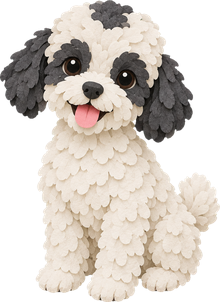
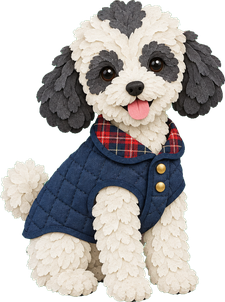
v2-pro preview: Pudding's winter coat
Claude-Session: https://claude.ai/code/session_01YFmgE8t31npEdtV1E44xiG

diff --git a/v2-pro/index.html b/v2-pro/index.html
@@ -313,10 +313,8 @@ p { margin: 0; }
 
 
 /* Pudding the puppy sits on the pavement by the student from the start; when the journey arrives she hops, then wags and tilts her head */
-.stepimg .pud { position: absolute; width: 7.6%; left: 30.5%; top: 55%; pointer-events: none; }
+.stepimg .pud { position: absolute; width: 7.77%; left: 30.5%; top: 55%; pointer-events: none; }
 .stepimg .pudding img { display: block; width: 100%; height: auto; }
-.stepimg .pudding .vest { position: absolute; left: 18.5%; top: 45.5%; width: 50%; height: 25%; filter: drop-shadow(0 1px 1.5px rgba(0,0,0,.3)); }
-.stepimg .pudding .tie { position: absolute; left: 36%; top: 46%; width: 14.5%; height: auto; filter: drop-shadow(0 1px 1px rgba(0,0,0,.25)); }
 .stepimg .pudding { position: relative; display: block; width: 100%; transform-origin: 50% 100%; pointer-events: none; filter: drop-shadow(0 2px 1px rgba(0,0,0,.22)); }
 .journey.live li.played .stepimg .pudding { animation: pud-hop .9s steps(1, end) 1.2s 1, pud-wag 2.4s steps(1, end) 2.2s infinite; }
 @keyframes pud-hop { 0%, 100% { transform: none; } 20% { transform: scale(1.06, .9); } 40% { transform: translateY(-24%) scale(.96, 1.06); } 60% { transform: translateY(-8%); } 80% { transform: scale(1.04, .94); } }
@@ -589,7 +587,7 @@ footer .base { margin-top: 40px; padding-top: 18px; border-top: 1px solid rgba(2
           </div>
         </div>
         <figure class="pframe">
-          <img src="images/v2/consult.jpg?v=1795373072" alt="A consultant talking with a mother and her daughter by a window over the sea" width="1400" height="933">
+          <img src="images/v2/consult.jpg?v=1795373140" alt="A consultant talking with a mother and her daughter by a window over the sea" width="1400" height="933">
         </figure>
       </div>
       <div class="facts">
@@ -610,9 +608,9 @@ footer .base { margin-top: 40px; padding-top: 18px; border-top: 1px solid rgba(2
       <div>
         <div class="journey" id="journey"><span class="track" aria-hidden="true"><span class="fill"></span><span class="dot"></span></span>
         <ol class="process">
-          <li><span class="n">1</span><h3><span class="en">A free conversation</span><span class="zh">免费沟通</span></h3><p><span class="en">Tell us about age, grades, English level, budget and goals, by WeChat call or in person.</span><span class="zh">通过微信语音或面谈，聊聊年龄、成绩、英语水平、预算和目标。</span><span class="who"><span class="en">With Oriwis</span><span class="zh">Oriwis 陪同</span></span></p><div class="stepimg"><div class="scene"><img class="base" src="images/v2/step1.jpg?v=1795373072" alt="Paper-cut illustration: a consultant with a short black bob, in a navy blazer, talking with a mother and her daughter at a table, with a palm tree in the window" width="960" height="640" loading="lazy"><div class="sea" style="left:30.312%;top:15.000%;width:22.396%;height:25.000%"><img src="images/v2/step1.jpg?v=1795373072" alt="" style="width:446.512%;left:-135.349%;top:-60.000%;transform-origin:41.51% 27.50%"></div><div class="sea" style="left:54.583%;top:17.500%;width:21.562%;height:22.500%"><img src="images/v2/step1.jpg?v=1795373072" alt="" style="width:463.768%;left:-253.140%;top:-77.778%;transform-origin:65.36% 28.75%"></div><svg class="palm" viewBox="0 0 120 170" aria-hidden="true" style="left:62.292%;top:0.000%;width:10.000%"><ellipse cx="60" cy="160" rx="34" ry="8" fill="#cdb07a"/><ellipse cx="60" cy="157" rx="30" ry="7" fill="#e9d3a3"/><g class="palm-sway"><path d="M55 158 C57 125 52 92 60 52 L67 53 C61 92 66 125 65 158 Z" fill="#8a5c3a"/><path d="M57 150h8M56 138h9M55 126h9M55 114h9M56 102h9M57 90h9M58 78h8M59 66h8" stroke="#6d4529" stroke-width="2" stroke-linecap="round"/><g class="fronds"><path d="M63 50 C45 34 22 32 6 44 C24 38 42 42 63 54 Z" fill="#2c7c58"/><path d="M63 50 C50 26 34 14 16 14 C34 22 47 34 61 54 Z" fill="#3a9a6c"/><path d="M63 50 C64 28 72 12 86 6 C76 18 70 32 66 54 Z" fill="#2c7c58"/><path d="M63 50 C80 32 100 30 116 40 C98 38 82 42 66 55 Z" fill="#3a9a6c"/><path d="M64 52 C84 50 104 58 112 74 C98 62 82 58 64 57 Z" fill="#2c7c58"/><path d="M62 52 C44 52 24 62 16 78 C30 66 46 60 62 57 Z" fill="#3a9a6c"/><circle cx="60" cy="56" r="4.2" fill="#6b4a2e"/><circle cx="67" cy="57" r="4" fill="#5a3d25"/></g></g></svg><svg class="gull" viewBox="0 0 40 20" aria-hidden="true"><path class="w1" d="M2 12 Q10 2 20 11 Q30 2 38 12 Q30 7 20 14 Q10 7 2 12Z"/><path class="w2" d="M3 6 Q11 13 20 11 Q29 13 37 6 Q29 15 20 15 Q11 15 3 6Z"/></svg><span class="wtint" aria-hidden="true" style="left:30.312%;top:0.000%;width:22.396%;height:40.000%"><span class="dusk"></span><span class="night"><i class="wstar" style="left:18%;top:20%"></i><i class="wstar" style="left:40%;top:10%"></i><i class="wstar" style="left:70%;top:30%"></i><i class="wstar" style="left:25%;top:45%"></i></span></span><span class="wtint" aria-hidden="true" style="left:54.583%;top:0.000%;width:21.562%;height:40.000%"><span class="dusk"></span><span class="night"><i class="wmoon"></i><i class="wstar" style="left:15%;top:12%"></i><i class="wstar" style="left:35%;top:40%"></i><i class="wstar" style="left:55%;top:8%"></i></span></span><div class="pc b1" style="left:0.000%;top:46.094%;width:31.562%;transform-origin:46.2% 99.6%"><img class="bimg" src="images/v2/step1-b1.png?v=1795373072" alt="" loading="lazy"><img class="arm" src="images/v2/step1-arm.png?v=1795373072" alt="" loading="lazy" style="left:86.139%;top:21.983%;width:36.964%;transform-origin:22.3% 85.4%"><img class="head h1" src="images/v2/step1-h1.png?v=1795373072" alt="" loading="lazy" style="left:14.191%;top:-76.293%;width:61.716%;transform-origin:62.6% 98.9%"></div><div class="pc b2" style="left:38.646%;top:47.500%;width:28.958%;transform-origin:50.0% 98.6%"><img class="bimg" src="images/v2/step1-b2.png?v=1795373072" alt="" loading="lazy"><img class="head h2" src="images/v2/step1-h2.png?v=1795373072" alt="" loading="lazy" style="left:17.626%;top:-92.417%;width:74.820%;transform-origin:49.0% 99.5%"></div><div class="pc b3" style="left:72.604%;top:49.375%;width:26.875%;transform-origin:47.7% 98.4%"><img class="bimg" src="images/v2/step1-b3.png?v=1795373072" alt="" loading="lazy"><img class="head h3" src="images/v2/step1-h3.png?v=1795373072" alt="" loading="lazy" style="left:23.256%;top:-61.200%;width:74.806%;transform-origin:30.1% 99.4%"></div></div></div></li>
-          <li><span class="n">2</span><h3><span class="en">Your shortlist</span><span class="zh">匹配清单</span></h3><p><span class="en">A short list of suitable UK schools or courses, with entry requirements and timing explained.</span><span class="zh">一份适合你的英国学校或课程清单，讲清入学要求和时间安排。</span><span class="who"><span class="en">With Oriwis</span><span class="zh">Oriwis 陪同</span></span></p><div class="stepimg"><div class="scene"><img class="base" src="images/v2/step2.jpg?v=1795373072" alt="Paper-cut illustration: a magnifying glass moves over a map of the UK and finds schools in Scotland, the Midlands and London" width="960" height="640" loading="lazy"><img class="card cardA" src="images/v2/step2-cardA.png?v=1795373072" alt="" loading="lazy" style="left:62.500%;top:6.562%;width:26.042%"><img class="card cardC" src="images/v2/step2-cardC.png?v=1795373072" alt="" loading="lazy" style="left:12.500%;top:39.062%;width:22.396%"><img class="card cardB" src="images/v2/step2-cardB.png?v=1795373072" alt="" loading="lazy" style="left:70.000%;top:51.562%;width:26.042%"><svg class="mag" viewBox="0 0 120 120" aria-hidden="true"><rect x="74" y="70" width="16" height="52" rx="7" transform="rotate(-45 82 96)" fill="#1e4a63"/><rect x="77" y="73" width="6" height="40" rx="3" transform="rotate(-45 80 93)" fill="#2f6582"/><circle cx="48" cy="48" r="38" fill="rgba(255,255,255,.22)" stroke="#1e4a63" stroke-width="10"/><circle cx="48" cy="48" r="31" fill="none" stroke="#8fc6c9" stroke-width="3"/><path d="M30 30 Q38 22 50 22" fill="none" stroke="#fff" stroke-width="5" stroke-linecap="round" opacity=".75"/></svg></div></div></li>
-          <li class="you"><span class="n">3</span><h3><span class="en">Introduction to the school</span><span class="zh">对接学校</span></h3><p><span class="en">We introduce you to the school or its official partner. You apply and pay them directly.</span><span class="zh">我们为你介绍学校或其官方合作方，申请与缴费由你直接完成。</span><span class="who"><span class="en">You and the school</span><span class="zh">你与学校</span></span></p><div class="stepimg"><div class="scene"><img class="base" src="images/v2/step3.jpg?v=1795373072" alt="Paper-cut illustration: a student and her mother shake hands with a teacher at a London school gate, with Big Ben, a red phone box, a street lamp and a little white poodle puppy and a schoolboy cycling in with books in his basket, whom the puppy runs over to greet, while the front of a red double-decker bus pulls in at the right" width="960" height="640" loading="lazy"><span class="lamp" aria-hidden="true" style="left:93.229%;top:18.438%"><i class="halo"></i><i class="glass"></i></span><span class="pud"><span class="pudding"><img src="images/v2/step3-pudding.png?v=1795373072" alt="" loading="lazy" width="220"><svg class="tie" viewBox="0 0 32 80" aria-hidden="true"><defs><clipPath id="tieclip"><path d="M10 10 L22 10 L27 62 L16 78 L5 62 Z"/></clipPath></defs><path d="M8 0 L24 0 L22 11 L10 11 Z" fill="#14294a"/><g clip-path="url(#tieclip)"><rect x="0" y="8" width="32" height="74" fill="#14294a"/><path d="M-6 20 L40 4 M-6 34 L40 18 M-6 48 L40 32 M-6 62 L40 46 M-6 76 L40 60" stroke="#e3b061" stroke-width="3.2"/><path d="M-6 25 L40 9 M-6 39 L40 23 M-6 53 L40 37 M-6 67 L40 51" stroke="#a83232" stroke-width="1.6"/></g><path d="M8 0 L24 0 L22 11 L10 11 Z" fill="none" stroke="rgba(0,0,0,.25)" stroke-width="1"/></svg><svg class="vest" viewBox="0 0 100 60" preserveAspectRatio="none" aria-hidden="true"><path d="M22 3 L35 0 L50 42 L65 0 L78 3 Q93 18 95 38 Q96 52 91 57 L62 54 L50 60 L38 54 L9 57 Q4 52 5 38 Q7 18 22 3 Z" fill="#2f3d55"/><path d="M35 0 L50 42 L65 0" fill="none" stroke="#1d2738" stroke-width="2.2" stroke-linejoin="round"/><path d="M50 42 L50 59" stroke="#1d2738" stroke-width="1.2"/><path d="M22 3 L35 0 L50 42 L65 0 L78 3 Q93 18 95 38 Q96 52 91 57 L62 54 L50 60 L38 54 L9 57 Q4 52 5 38 Q7 18 22 3 Z" fill="none" stroke="#1d2738" stroke-width="1.4"/><path d="M17 40 l13 -1.5 M70 38.5 l13 1.5" stroke="#1d2738" stroke-width="1.6" stroke-linecap="round"/><g fill="#e3b061" stroke="#a87a2c" stroke-width=".6"><circle cx="53.5" cy="46" r="2.1"/><circle cx="53.5" cy="52.5" r="2.1"/></g></svg></span></span><span class="cyclist" aria-hidden="true"><svg class="scarf" viewBox="0 0 100 40" aria-hidden="true"><g class="s1"><path d="M100 10 C82 4 64 16 44 9 S14 4 2 12" fill="none" stroke="#c8322f" stroke-width="9" stroke-linecap="round"/><path d="M100 10 C82 4 64 16 44 9 S14 4 2 12" fill="none" stroke="#f2e6cf" stroke-width="9" stroke-dasharray="7 7"/><path d="M2 12 l-3 -4 M2 12 l-4 0 M2 12 l-3 4" stroke="#c8322f" stroke-width="1.6" stroke-linecap="round"/></g><g class="s2"><path d="M100 10 C82 16 62 2 42 12 S12 16 2 6" fill="none" stroke="#c8322f" stroke-width="9" stroke-linecap="round"/><path d="M100 10 C82 16 62 2 42 12 S12 16 2 6" fill="none" stroke="#f2e6cf" stroke-width="9" stroke-dasharray="7 7"/><path d="M2 6 l-3 -4 M2 6 l-4 0 M2 6 l-3 4" stroke="#c8322f" stroke-width="1.6" stroke-linecap="round"/></g></svg><img src="images/v2/step3-boy.png?v=1795373072" alt="" loading="lazy" width="300" height="300"></span><img class="hands" src="images/v2/step3-hands.png?v=1795373072" alt="" loading="lazy" style="left:48.854%;top:45.625%;width:5.729%"><img class="bus" src="images/v2/step3-bus.png?v=1795373072" alt="" loading="lazy" width="520" height="389"></div></div></li>
+          <li><span class="n">1</span><h3><span class="en">A free conversation</span><span class="zh">免费沟通</span></h3><p><span class="en">Tell us about age, grades, English level, budget and goals, by WeChat call or in person.</span><span class="zh">通过微信语音或面谈，聊聊年龄、成绩、英语水平、预算和目标。</span><span class="who"><span class="en">With Oriwis</span><span class="zh">Oriwis 陪同</span></span></p><div class="stepimg"><div class="scene"><img class="base" src="images/v2/step1.jpg?v=1795373140" alt="Paper-cut illustration: a consultant with a short black bob, in a navy blazer, talking with a mother and her daughter at a table, with a palm tree in the window" width="960" height="640" loading="lazy"><div class="sea" style="left:30.312%;top:15.000%;width:22.396%;height:25.000%"><img src="images/v2/step1.jpg?v=1795373140" alt="" style="width:446.512%;left:-135.349%;top:-60.000%;transform-origin:41.51% 27.50%"></div><div class="sea" style="left:54.583%;top:17.500%;width:21.562%;height:22.500%"><img src="images/v2/step1.jpg?v=1795373140" alt="" style="width:463.768%;left:-253.140%;top:-77.778%;transform-origin:65.36% 28.75%"></div><svg class="palm" viewBox="0 0 120 170" aria-hidden="true" style="left:62.292%;top:0.000%;width:10.000%"><ellipse cx="60" cy="160" rx="34" ry="8" fill="#cdb07a"/><ellipse cx="60" cy="157" rx="30" ry="7" fill="#e9d3a3"/><g class="palm-sway"><path d="M55 158 C57 125 52 92 60 52 L67 53 C61 92 66 125 65 158 Z" fill="#8a5c3a"/><path d="M57 150h8M56 138h9M55 126h9M55 114h9M56 102h9M57 90h9M58 78h8M59 66h8" stroke="#6d4529" stroke-width="2" stroke-linecap="round"/><g class="fronds"><path d="M63 50 C45 34 22 32 6 44 C24 38 42 42 63 54 Z" fill="#2c7c58"/><path d="M63 50 C50 26 34 14 16 14 C34 22 47 34 61 54 Z" fill="#3a9a6c"/><path d="M63 50 C64 28 72 12 86 6 C76 18 70 32 66 54 Z" fill="#2c7c58"/><path d="M63 50 C80 32 100 30 116 40 C98 38 82 42 66 55 Z" fill="#3a9a6c"/><path d="M64 52 C84 50 104 58 112 74 C98 62 82 58 64 57 Z" fill="#2c7c58"/><path d="M62 52 C44 52 24 62 16 78 C30 66 46 60 62 57 Z" fill="#3a9a6c"/><circle cx="60" cy="56" r="4.2" fill="#6b4a2e"/><circle cx="67" cy="57" r="4" fill="#5a3d25"/></g></g></svg><svg class="gull" viewBox="0 0 40 20" aria-hidden="true"><path class="w1" d="M2 12 Q10 2 20 11 Q30 2 38 12 Q30 7 20 14 Q10 7 2 12Z"/><path class="w2" d="M3 6 Q11 13 20 11 Q29 13 37 6 Q29 15 20 15 Q11 15 3 6Z"/></svg><span class="wtint" aria-hidden="true" style="left:30.312%;top:0.000%;width:22.396%;height:40.000%"><span class="dusk"></span><span class="night"><i class="wstar" style="left:18%;top:20%"></i><i class="wstar" style="left:40%;top:10%"></i><i class="wstar" style="left:70%;top:30%"></i><i class="wstar" style="left:25%;top:45%"></i></span></span><span class="wtint" aria-hidden="true" style="left:54.583%;top:0.000%;width:21.562%;height:40.000%"><span class="dusk"></span><span class="night"><i class="wmoon"></i><i class="wstar" style="left:15%;top:12%"></i><i class="wstar" style="left:35%;top:40%"></i><i class="wstar" style="left:55%;top:8%"></i></span></span><div class="pc b1" style="left:0.000%;top:46.094%;width:31.562%;transform-origin:46.2% 99.6%"><img class="bimg" src="images/v2/step1-b1.png?v=1795373140" alt="" loading="lazy"><img class="arm" src="images/v2/step1-arm.png?v=1795373140" alt="" loading="lazy" style="left:86.139%;top:21.983%;width:36.964%;transform-origin:22.3% 85.4%"><img class="head h1" src="images/v2/step1-h1.png?v=1795373140" alt="" loading="lazy" style="left:14.191%;top:-76.293%;width:61.716%;transform-origin:62.6% 98.9%"></div><div class="pc b2" style="left:38.646%;top:47.500%;width:28.958%;transform-origin:50.0% 98.6%"><img class="bimg" src="images/v2/step1-b2.png?v=1795373140" alt="" loading="lazy"><img class="head h2" src="images/v2/step1-h2.png?v=1795373140" alt="" loading="lazy" style="left:17.626%;top:-92.417%;width:74.820%;transform-origin:49.0% 99.5%"></div><div class="pc b3" style="left:72.604%;top:49.375%;width:26.875%;transform-origin:47.7% 98.4%"><img class="bimg" src="images/v2/step1-b3.png?v=1795373140" alt="" loading="lazy"><img class="head h3" src="images/v2/step1-h3.png?v=1795373140" alt="" loading="lazy" style="left:23.256%;top:-61.200%;width:74.806%;transform-origin:30.1% 99.4%"></div></div></div></li>
+          <li><span class="n">2</span><h3><span class="en">Your shortlist</span><span class="zh">匹配清单</span></h3><p><span class="en">A short list of suitable UK schools or courses, with entry requirements and timing explained.</span><span class="zh">一份适合你的英国学校或课程清单，讲清入学要求和时间安排。</span><span class="who"><span class="en">With Oriwis</span><span class="zh">Oriwis 陪同</span></span></p><div class="stepimg"><div class="scene"><img class="base" src="images/v2/step2.jpg?v=1795373140" alt="Paper-cut illustration: a magnifying glass moves over a map of the UK and finds schools in Scotland, the Midlands and London" width="960" height="640" loading="lazy"><img class="card cardA" src="images/v2/step2-cardA.png?v=1795373140" alt="" loading="lazy" style="left:62.500%;top:6.562%;width:26.042%"><img class="card cardC" src="images/v2/step2-cardC.png?v=1795373140" alt="" loading="lazy" style="left:12.500%;top:39.062%;width:22.396%"><img class="card cardB" src="images/v2/step2-cardB.png?v=1795373140" alt="" loading="lazy" style="left:70.000%;top:51.562%;width:26.042%"><svg class="mag" viewBox="0 0 120 120" aria-hidden="true"><rect x="74" y="70" width="16" height="52" rx="7" transform="rotate(-45 82 96)" fill="#1e4a63"/><rect x="77" y="73" width="6" height="40" rx="3" transform="rotate(-45 80 93)" fill="#2f6582"/><circle cx="48" cy="48" r="38" fill="rgba(255,255,255,.22)" stroke="#1e4a63" stroke-width="10"/><circle cx="48" cy="48" r="31" fill="none" stroke="#8fc6c9" stroke-width="3"/><path d="M30 30 Q38 22 50 22" fill="none" stroke="#fff" stroke-width="5" stroke-linecap="round" opacity=".75"/></svg></div></div></li>
+          <li class="you"><span class="n">3</span><h3><span class="en">Introduction to the school</span><span class="zh">对接学校</span></h3><p><span class="en">We introduce you to the school or its official partner. You apply and pay them directly.</span><span class="zh">我们为你介绍学校或其官方合作方，申请与缴费由你直接完成。</span><span class="who"><span class="en">You and the school</span><span class="zh">你与学校</span></span></p><div class="stepimg"><div class="scene"><img class="base" src="images/v2/step3.jpg?v=1795373140" alt="Paper-cut illustration: a student and her mother shake hands with a teacher at a London school gate, with Big Ben, a red phone box, a street lamp and a little white poodle puppy in a navy winter coat and a schoolboy cycling in with books in his basket, whom the puppy runs over to greet, while the front of a red double-decker bus pulls in at the right" width="960" height="640" loading="lazy"><span class="lamp" aria-hidden="true" style="left:93.229%;top:18.438%"><i class="halo"></i><i class="glass"></i></span><span class="pud"><span class="pudding"><img src="images/v2/step3-pudding.png?v=1795373140" alt="" loading="lazy" width="225"></span></span><span class="cyclist" aria-hidden="true"><svg class="scarf" viewBox="0 0 100 40" aria-hidden="true"><g class="s1"><path d="M100 10 C82 4 64 16 44 9 S14 4 2 12" fill="none" stroke="#c8322f" stroke-width="9" stroke-linecap="round"/><path d="M100 10 C82 4 64 16 44 9 S14 4 2 12" fill="none" stroke="#f2e6cf" stroke-width="9" stroke-dasharray="7 7"/><path d="M2 12 l-3 -4 M2 12 l-4 0 M2 12 l-3 4" stroke="#c8322f" stroke-width="1.6" stroke-linecap="round"/></g><g class="s2"><path d="M100 10 C82 16 62 2 42 12 S12 16 2 6" fill="none" stroke="#c8322f" stroke-width="9" stroke-linecap="round"/><path d="M100 10 C82 16 62 2 42 12 S12 16 2 6" fill="none" stroke="#f2e6cf" stroke-width="9" stroke-dasharray="7 7"/><path d="M2 6 l-3 -4 M2 6 l-4 0 M2 6 l-3 4" stroke="#c8322f" stroke-width="1.6" stroke-linecap="round"/></g></svg><img src="images/v2/step3-boy.png?v=1795373140" alt="" loading="lazy" width="300" height="300"></span><img class="hands" src="images/v2/step3-hands.png?v=1795373140" alt="" loading="lazy" style="left:48.854%;top:45.625%;width:5.729%"><img class="bus" src="images/v2/step3-bus.png?v=1795373140" alt="" loading="lazy" width="520" height="389"></div></div></li>
         </ol></div>
         <div class="scope">
           <div><h3><span class="en">What we do</span><span class="zh">我们提供</span></h3><ul><li><span class="en">Match your profile to suitable UK options</span><span class="zh">根据你的情况匹配英国学校与课程</span></li><li><span class="en">A free first consultation</span><span class="zh">免费初步咨询</span></li><li><span class="en">Referral to the school or its partner</span><span class="zh">转介至学校或其合作方</span></li></ul></div>
@@ -708,7 +706,7 @@ footer .base { margin-top: 40px; padding-top: 18px; border-top: 1px solid rgba(2
         <p class="legal"><span class="en">Oriwis provides study-abroad information matching, preliminary consultations and referrals only. We are not a study-abroad agency. We do not handle admissions, collect fees from students, or sign admission guarantee agreements. Students register, pay and complete all procedures directly with the school or its overseas partner.</span><span class="zh">Oriwis 仅提供留学信息匹配、初步咨询与转介服务，不是留学中介机构。我们不代办入学申请，不向学生收取费用，不签署任何录取担保协议。学生最终直接向学校或海外合作方注册、缴费并办理相关手续。</span></p>
       </div>
     </div>
-    <div class="base"><span>© <span id="yr">2026</span> Oriwis · Preview 23 Nov 02:44</span><span><span class="en">Photos are AI-generated illustrations, not real students or schools.</span><span class="zh">网站图片为 AI 生成的示意图，并非真实学生或学校。</span></span></div>
+    <div class="base"><span>© <span id="yr">2026</span> Oriwis · Preview 23 Nov 02:45</span><span><span class="en">Photos are AI-generated illustrations, not real students or schools.</span><span class="zh">网站图片为 AI 生成的示意图，并非真实学生或学校。</span></span></div>
   </div>
 </footer>
 
